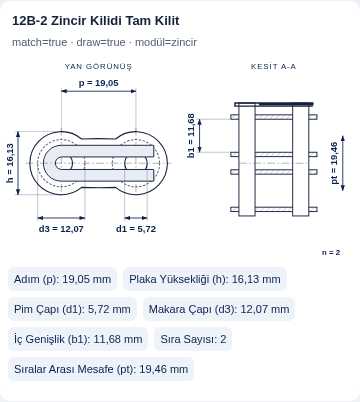
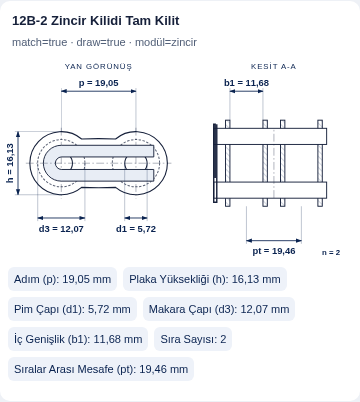
Align connecting-link section and horizontal dimensions

Changed region(s): [[0.5194, 0.1791, 0.9778, 0.6567]]

diff --git a/site/draw/zincir.js b/site/draw/zincir.js
@@ -81,8 +81,15 @@ function draw(ctx,opt){
     if(clip)section+='<path data-part="section-clip" d="M'+P(rx+pm*1.5,Y(-ti))+'L'+P(lx-pm*1.5,Y(-ti))+'L'+P(lx-pm*1.5,Y(-ti*1.7))+'L'+P(rx+pm*1.5,Y(-ti*1.7))+'L'+P(rx+pm*1.5,Y(-ti*1.35))+'L'+P(lx+pm*1.5,Y(-ti*1.35))+'" fill="none" stroke="'+C+'" stroke-width="1.8"/>';
     section+=CL(lx-10,137,rx+10,137);
     var bx=255,by1=Y(ti*2),by2=Y(ti*2+D.b1);
-    g+=group('b1',EXT(lx-D.d3*ss/2,by1,bx-4,by1,dim)+EXT(lx-D.d3*ss/2,by2,bx-4,by2,dim)+dimL(id,dim,bx,by1,bx,by2)+txt(bx-7,(by1+by2)/2,'b1 = '+f(D.b1),dim,'transform="rotate(-90 '+(bx-7)+' '+((by1+by2)/2)+')"'));
-    if(D.n>1){var py1=Y(ti*2+D.b1/2),py2=py1+D.pt*ss;g+=group('pt',dimL(id,dim,438,py1,438,py2)+txt(431,(py1+py2)/2,'pt = '+f(D.pt),dim,'transform="rotate(-90 431 '+((py1+py2)/2)+')"'))}
+    if(clip){
+      section='<g transform="rotate(-90 350 137)">'+section+'</g>';
+      var bx1=350+by1-137,bx2=350+by2-137,yt=137-(rx+D.d1*ss-350),yb=137-(lx-D.d1*ss-350);
+      g+=group('b1',EXT(bx1,yt,bx1,41,dim)+EXT(bx2,yt,bx2,41,dim)+dimL(id,dim,bx1,45,bx2,45)+txt((bx1+bx2)/2,38,'b1 = '+f(D.b1),dim));
+      if(D.n>1){var pc1=bx1+D.b1*ss/2,pc2=pc1+D.pt*ss;g+=group('pt',EXT(pc1,yb,pc1,240,dim)+EXT(pc2,yb,pc2,240,dim)+dimL(id,dim,pc1,236,pc2,236)+txt((pc1+pc2)/2,253,'pt = '+f(D.pt),dim))}
+    }else{
+      g+=group('b1',EXT(lx-D.d3*ss/2,by1,bx-4,by1,dim)+EXT(lx-D.d3*ss/2,by2,bx-4,by2,dim)+dimL(id,dim,bx,by1,bx,by2)+txt(bx-7,(by1+by2)/2,'b1 = '+f(D.b1),dim,'transform="rotate(-90 '+(bx-7)+' '+((by1+by2)/2)+')"'));
+      if(D.n>1){var py1=Y(ti*2+D.b1/2),py2=py1+D.pt*ss;g+=group('pt',dimL(id,dim,438,py1,438,py2)+txt(431,(py1+py2)/2,'pt = '+f(D.pt),dim,'transform="rotate(-90 431 '+((py1+py2)/2)+')"'))}
+    }
   }else{
   for(i=0;i<D.n;i++){
     var c=centers[i%cols],a=c-D.b1/2,b=c+D.b1/2,y=rowCy+Math.floor(i/cols)*96;

diff --git a/site/draw/rapor/zincir.md b/site/draw/rapor/zincir.md
@@ -123,7 +123,7 @@ PASS: diff whitespace and existing zincir_disli files unchanged
 - Sıra sayısının lider çizgileri kaldırıldı; yalnız anahtar ve küçük `n` metni kaldı.
 - d3 ilk makarada, d1 diğer pimde; yatay çap ölçüleri ve dik uzatma çizgileriyle birbirinden ayrı gösterilir. Çaplar için çapraz lider yok.
 - Yarım kilit kesiti artık iki pim ekseninden geçen boyuna kesittir: sabit kalınlıklı iki krank plaka, bir uçta makara/burç ve diğer uçta pim. Karşılıklı eğik/flared enine plakalar kaldırıldı. Yan görünüşte makara yalnız makara ucunda gösterilir.
-- Tam kilit boyuna kesitinde dış plakalar, iki pim ve pim uçlarına oturan ayrı yaylı klips bulunur. Çok sıralı kilitte her sıra plaka çifti ortak iki pim üzerinde gösterilir. Boyuna kilit kesitleri, b1/pt genişliğini de gösterecek şekilde kendi alanına ölçeklenir; h ölçeği eşitliği makaralı zincirin enine kesiti için geçerlidir.
+- Tam kilit boyuna kesitinde dış plakalar, iki pim ve pim uçlarına oturan ayrı yaylı klips bulunur. Çok sıralı kilitte her sıra plaka çifti ortak iki pim üzerinde gösterilir. Son yönlendirme düzeltmesiyle tam kilit kesitindeki plakalar diğer zincir kesitleriyle aynı yöndedir; b1 üstte ve pt altta yatay ölçülendirilir. Boyuna kilit kesitleri, b1/pt genişliğini de gösterecek şekilde kendi alanına ölçeklenir; h ölçeği eşitliği makaralı zincirin enine kesiti için geçerlidir.
 - Etiketler, anahtar sırası, fixture verileri, eşleştirme ve eksik ölçü davranışı değişmedi. 27 fixture iki genişlikte yeniden çalıştırıldı; mevcut 17 sayfa ve dişli yönlendirmesi yine geçti. Build yeniden çalıştı, üretilen JS Chrome'da parse edildi.
 - Birleşik dosya: `site/draw/preview/zincir/review-460.png` (936×1313, iki sütun; 16b-4, 08b-2, offset-08b-1, clip-12b-2, c2052). Beş 460px kartın tamamı ve 16B-4 360px kartı görsel olarak incelendi; önceki metin sınırı/çakışma kontrolleri de geçti.
 
